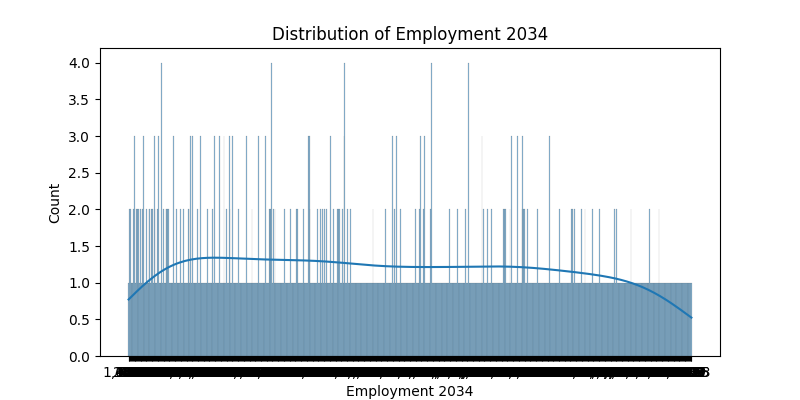
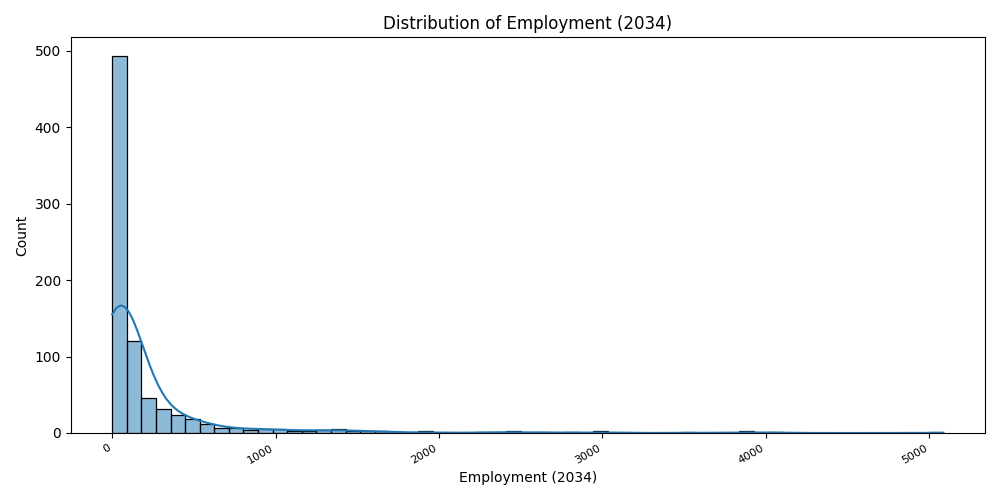
made changes to plot and graph labels. created the evaluation methods

diff --git a/src/eda.py b/src/eda.py
@@ -24,17 +24,33 @@ numeric_cols = [
     'Median Annual Wage 2024'
 ]
 os.makedirs('plots', exist_ok=True)
+column_labels = {
+    'Employment 2024': 'Employment (2024)',
+    'Employment 2034': 'Employment (2034)',
+    'Employment Change, 2024-2034': 'Employment Change (2024-2034)',
+    'Employment Percent Change, 2024-2034': 'Employment % Change (2024-2034)',
+    'Occupational Openings, 2024-2034 Annual Average': 'Annual Avg Openings (2024-2034)',
+    'Median Annual Wage 2024': 'Median Annual Wage (2024)'
+}
 for col in numeric_cols:
     if col in df.columns:
-        plt.figure(figsize=(8, 4))
+        plt.figure(figsize=(10, 5))
         sns.histplot(df[col].dropna(), kde=True)
-        plt.title(f'Distribution of {col}')
+        label = column_labels.get(col, col)
+        plt.title(f'Distribution of {label}')
+        plt.xlabel(label, fontsize=10)
+        plt.ylabel('Count', fontsize=10)
+        plt.xticks(rotation=30, ha='right', fontsize=8)
+        plt.tight_layout()
         plt.savefig(f'plots/{col}_distribution.png')
         plt.close()
 
 # Correlation heatmap
-plt.figure(figsize=(10, 8))
-sns.heatmap(df[numeric_cols].corr(), annot=True, cmap='coolwarm')
-plt.title('Correlation Heatmap of Numeric Columns')
+plt.figure(figsize=(12, 10))
+heatmap_labels = [column_labels.get(col, col) for col in numeric_cols]
+sns.heatmap(df[numeric_cols].corr(), annot=True, cmap='coolwarm', annot_kws={"size": 9},
+            xticklabels=heatmap_labels, yticklabels=heatmap_labels)
+plt.title('Correlation Heatmap (2024-2034)')
+plt.tight_layout()
 plt.show()
 

diff --git a/src/model/evaluate.py b/src/model/evaluate.py
@@ -1,7 +1,7 @@
 import joblib
 import pandas as pd
 from sklearn.metrics import mean_squared_error, accuracy_score
-import os
+
 
 
 def load_model(model_path):
@@ -21,4 +21,26 @@ if __name__ == '__main__':
     data = load_data("data/cleaned_employment_projections.csv")
     X_test = data.drop("Employment 2034", axis=1)
     y_test = data["Employment 2034"]
+
+    # Load feature columns used during training
+    feature_cols = pd.read_csv("model_data/selected_features.csv", nrows=0).columns.tolist()
+
+    # Add missing columns as 0, drop extra columns, and ensure correct order
+    for col in feature_cols:
+        if col not in X_test.columns:
+            X_test[col] = 0
+    X_test = X_test[feature_cols]
+
     evaluate_model(model, X_test, y_test)
+
+    # Show feature importances if available
+    if hasattr(model, 'feature_importances_'):
+        importances = model.feature_importances_
+        feature_importance_df = pd.DataFrame({
+            'feature': feature_cols,
+            'importance': importances
+        }).sort_values(by='importance', ascending=False)
+        print("\nTop Feature Importances:")
+        print(feature_importance_df.head(20).to_string(index=False))
+    else:
+        print("\nModel does not provide feature importances.")

diff --git a/src/utils.py b/src/utils.py
@@ -1,0 +1,46 @@
+# utils.py - Starter template for common utility functions
+import pandas as pd
+import json
+import logging
+import os
+
+def load_csv(path):
+	"""Load a CSV file into a DataFrame."""
+	return pd.read_csv(path)
+
+def save_csv(df, path, index=False):
+	"""Save a DataFrame to a CSV file."""
+	df.to_csv(path, index=index)
+
+def load_json(path):
+	"""Load a JSON file as a dict."""
+	with open(path, 'r') as f:
+		return json.load(f)
+
+def save_json(obj, path):
+	"""Save a dict as a JSON file."""
+	with open(path, 'w') as f:
+		json.dump(obj, f, indent=2)
+
+def setup_logging(log_path='logs/app.log'):
+	"""Set up logging to a file and console."""
+	os.makedirs(os.path.dirname(log_path), exist_ok=True)
+	logging.basicConfig(
+		level=logging.INFO,
+		format='%(asctime)s %(levelname)s %(message)s',
+		handlers=[
+			logging.FileHandler(log_path),
+			logging.StreamHandler()
+		]
+	)
+
+def rmse(y_true, y_pred):
+	"""Calculate Root Mean Squared Error."""
+	from sklearn.metrics import mean_squared_error
+	import numpy as np
+	return np.sqrt(mean_squared_error(y_true, y_pred))
+
+def mae(y_true, y_pred):
+	"""Calculate Mean Absolute Error."""
+	from sklearn.metrics import mean_absolute_error
+	return mean_absolute_error(y_true, y_pred)
